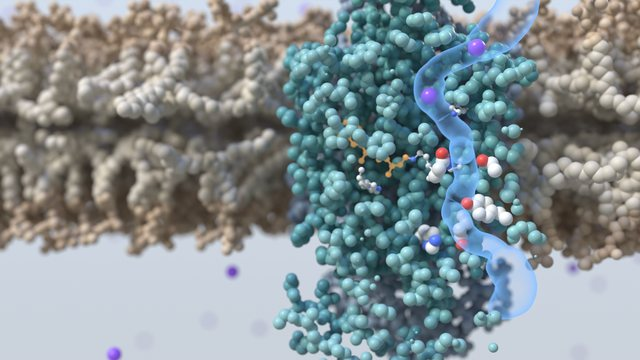
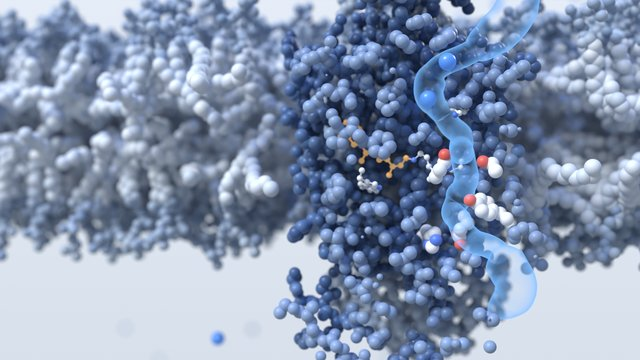
Molecular Animation 0.2.0: channelrhodopsin version 3 in release v0.2.0
- molanim 0.2.0.
- The case study's published delivery moves to release v0.2.0 (version 3,
  motion from physics); v0.1.0 keeps version 1. pipeline.py fetch and check
  now restore and compare the films this script makes.
- README and case-study README describe the motion layer and link the new
  release; case-study stills re-cut from the version 3 posters.

Claude-Session: https://claude.ai/code/session_01EFM4nZcLinTGRcQQg8xtDA

diff --git a/molanim/__init__.py b/molanim/__init__.py
@@ -16,7 +16,7 @@ Blender modules (import inside Blender 5.x only): molanim.blender.*
 import importlib
 import sys
 
-__version__ = '0.1.0'
+__version__ = '0.2.0'
 
 _ORDER = ('color', 'timeline', 'structure', 'morph', 'pathway', 'membrane', 'dynamics', 'particles',
           'blender.scene', 'blender.nodes', 'blender.groups', 'blender.mesh', 'blender.look', 'blender.rig',

diff --git a/README.md b/README.md
@@ -13,15 +13,16 @@ It is designed to be driven by an AI agent (Claude Code through Blender MCP) and
 
 https://github.com/user-attachments/assets/3e74cbad-caa4-4fd7-9cd3-a1a217ec0104
 
-*Case study: [channelrhodopsin](examples/channelrhodopsin/), from a brief on the 2026 Nobel Prize in Physiology or Medicine. A photon twists retinal, the protein responds, and a cation pathway opens. 21 s, built from PDB 9GO1/9GO2. Full-quality labelled and clean films are in the [v0.1.0 release](https://github.com/AmadeusBio-ai/Molecular_Animation/releases/tag/v0.1.0).*
+*Case study: [channelrhodopsin](examples/channelrhodopsin/), from a brief on the 2026 Nobel Prize in Physiology or Medicine. A photon twists retinal, the protein responds, and a cation pathway opens. 21 s, built from PDB 9GO1/9GO2. Full-quality labelled and clean films of version 3, whose thermal motion follows measured rates, are in the [v0.2.0 release](https://github.com/AmadeusBio-ai/Molecular_Animation/releases/tag/v0.2.0).*
 
 ## What's inside
 
 - **`molanim`, the framework.**
-  - A pure-numpy science layer: mmCIF and assemblies, atom-matched states, constrained morphs, pathway profiles, procedural membranes, illustrative ion motion, camera paths. It is unit-tested and runs anywhere.
-  - A Blender layer: sphere and ball-and-stick molecules with camera-aimed cutaways, cavity tubes, interaction markers, a studio look, a depth-of-field camera rig, and a separate label pass for captions, evidence tags and pointers.
-- **`pipeline.py`.** One command line for the whole production: `new` → `build` → `still` → `preview` → `render` → `deliver`, plus `doctor`, `motion` (jump and seam detection), `smoke` and `check` (re-render a poster frame and compare it with the delivery).
-- **A workflow and principles** for films that are both beautiful and scientifically honest: [docs/workflow.md](docs/workflow.md), [docs/principles.md](docs/principles.md).
+  - A pure-numpy science layer: mmCIF and assemblies, atom-matched states, constrained morphs, pathway profiles, procedural membranes, ion diffusion and transits, camera paths. It is unit-tested and runs anywhere.
+  - Thermal and Brownian motion from physics ([docs/motion.md](docs/motion.md)): one clock per film, exposure-averaged frames, and molecules that move as molecules (hydrodynamic tumbling and diffusion, elastic-network normal modes, side-chain turns about bonds, lipids as bodies, worm-like DNA), at rates from the literature. Loops repeat exactly.
+  - A Blender layer: sphere and ball-and-stick molecules with camera-aimed cutaways, cavity tubes, interaction markers, a studio look, a depth-of-field camera rig, and a separate label pass for captions, evidence tags, pointers and links.
+- **`pipeline.py`.** One command line for the whole production: `new` → `build` → `still` → `preview` → `render` → `deliver`, plus `doctor`, `motion` (jump and seam detection, on stepped previews and consecutive runs), `smoke` and `check` (re-render a poster frame and compare it with the delivery).
+- **A workflow and principles** for films that are both beautiful and scientifically honest: [docs/workflow.md](docs/workflow.md), [docs/principles.md](docs/principles.md), [docs/motion.md](docs/motion.md).
 - **An agent guide** ([AGENTS.md](AGENTS.md)) and a `/new-film` skill for Claude Code.
 
 ## Quick start
@@ -80,17 +81,17 @@ templates/shot/       the project scaffold
 assets/pdb/           structures from RCSB + SHA256SUMS
 tools/                render.py (inside Blender), encode.py, MCP smoke test, Windows MCP launcher
 tests/                pytest suite (runs in CI without Blender)
-docs/                 workflow, principles, framework API, setup, Blender 5 notes
+docs/                 workflow, principles, motion schematic, framework API, setup, Blender 5 notes
 AGENTS.md, CLAUDE.md  agent guide; .claude/skills/new-film is the /new-film skill
 ```
 
-`renders/`, `delivery/` and `.blend` files are build products and are ignored by git. The case study's delivered films are in the [v0.1.0 release](https://github.com/AmadeusBio-ai/Molecular_Animation/releases/tag/v0.1.0); get them with `python pipeline.py fetch channelrhodopsin`.
+`renders/`, `delivery/` and `.blend` files are build products and are ignored by git. The case study's delivered films are in the [v0.2.0 release](https://github.com/AmadeusBio-ai/Molecular_Animation/releases/tag/v0.2.0) (version 1 in [v0.1.0](https://github.com/AmadeusBio-ai/Molecular_Animation/releases/tag/v0.1.0)); get them with `python pipeline.py fetch channelrhodopsin`.
 
 ## Reproducibility
 
-- **Scripts are the source.** Builds are idempotent and report their numerical checks in `RESULT`. For the case study these are the retinal dihedral path, the salt-bridge distance, the worst morph bond deviation, the pathway profile and the ion clearance.
+- **Scripts are the source.** Builds are idempotent and report their numerical checks in `RESULT`. For the case study these are the retinal dihedral path, the salt-bridge distance, the worst morph bond deviation, the pathway profile, the ion clearance against the moving protein and the motion statistics.
 - **Pinned inputs.** Structures are committed with checksums. Blender 5.2 is pinned. Every Blender call uses `--factory-startup`, and the GPU is selected explicitly.
-- **Verified output.** `pipeline.py check` rebuilds a shot and compares a freshly rendered poster frame with the delivered one. After the case study was refactored onto `molanim`, its posters matched within 1/255 and its label frames were pixel-identical.
+- **Verified output.** `pipeline.py check` rebuilds a shot and compares a freshly rendered poster frame with the delivered one. After the case study was refactored onto `molanim`, its posters matched within 1/255 and its label frames were pixel-identical; version 3's poster still matches within 1/255 after the template's motion was generalised.
 
 ## Contributing
 

diff --git a/examples/channelrhodopsin/record.md b/examples/channelrhodopsin/record.md
@@ -1,6 +1,6 @@
 # Channelrhodopsin shot: production record · 2026-10-06
 
-**Status:** delivered 2026-10-06. Rebuilt on the `molanim` framework on 2026-10-07 with identical output (see Checks). Version 2 (thermal motion, website palette) delivered 2026-10-07; version 3 (motion from physics) delivered 2026-10-18 to `delivery/channelrhodopsin-v3/` (take-04, labels-05) (see the last two sections).
+**Status:** delivered 2026-10-06. Rebuilt on the `molanim` framework on 2026-10-07 with identical output (see Checks). Version 2 (thermal motion, website palette) delivered 2026-10-07; version 3 (motion from physics) delivered 2026-10-18 to `delivery/channelrhodopsin-v3/` (take-04, labels-05) and published in release v0.2.0 (see the last two sections).
 
 A 21 s scientific illustration for `sources/Nobel_Med_2026.md` (generated with ChatGPT; provenance in `sources/README.md`), direction 1, "The twist that opens a pathway". The brief recommends building this shot first. A photon isomerises retinal in the channelrhodopsin C1C2, the protein rearranges (Lys132 swings to Glu129), and the cation pathway is shown first interrupted, then open in an illustrative conducting-state model. The look is the studio molecular style: atoms as spheres, a pale backdrop, shallow depth of field, a teal protein with an amber chromophore.
 
@@ -123,7 +123,7 @@ The site owner found the delivered film too still: the lipids, side chains and r
   | `channelrhodopsin-clean.mp4` | H.264 | 504 | 21.0 s | 30.5 MB |
   | `channelrhodopsin-clean.webm` | VP9 | 504 | 21.0 s | 19.3 MB |
 
-  All are 1920×1080 at 24 fps, at the version 1 settings (CRF 16 / 24). The thermal motion makes them 1.7–2.2 times the size of version 1. Against the PNG frames (every 24th frame) the clean MP4 measures 41.2 dB (min 39.7) and the clean WebM 41.8 dB (min 40.3). Posters (clean): `-poster-wide.png` (frame 70), `-poster-retinal.png` (204), `-poster-channel.png` (470). Release v0.1.0 still holds version 1; the delivery zip is not rebuilt yet.
+  All are 1920×1080 at 24 fps, at the version 1 settings (CRF 16 / 24). The thermal motion makes them 1.7–2.2 times the size of version 1. Against the PNG frames (every 24th frame) the clean MP4 measures 41.2 dB (min 39.7) and the clean WebM 41.8 dB (min 40.3). Posters (clean): `-poster-wide.png` (frame 70), `-poster-retinal.png` (204), `-poster-channel.png` (470). Release v0.1.0 holds version 1; version 2 was not released (version 3 is in v0.2.0).
 - **Website.** The film replaces version 1 on amadeusbio.ai (`docs/media.md` in the website repository, "October 2026, fourth round"). The website encodes needed higher bitrates than version 1 to stay within 2 dB of it: VP9 1800k / 1300k and H.264 2200k / 2000k at 1080 / 720.
 
 ## Version 3 (2026-10-17): motion from physics

diff --git a/examples/channelrhodopsin/README.md b/examples/channelrhodopsin/README.md
@@ -9,7 +9,7 @@ A 21 s scientific illustration for the 2026 Nobel Prize in Physiology or Medicin
 2. The protein's interaction network rearranges (Lys132 swings to Glu129).
 3. The cation pathway is shown first as the crystal has it, interrupted, then open in a labelled, illustrative conducting-state model.
 
-The film comes in a labelled and a clean version (1920×1080, 24 fps, MP4 + WebM), published in the `v0.1.0` release. Get them with `python pipeline.py fetch channelrhodopsin`.
+The film comes in a labelled and a clean version (1920×1080, 24 fps, MP4 + WebM). Version 3, with motion from physics, is published in the [`v0.2.0` release](https://github.com/AmadeusBio-ai/Molecular_Animation/releases/tag/v0.2.0); get it with `python pipeline.py fetch channelrhodopsin`. Version 1 (no thermal motion, the original palette) stays in [`v0.1.0`](https://github.com/AmadeusBio-ai/Molecular_Animation/releases/tag/v0.1.0).
 
 ## From brief to film
 
@@ -30,6 +30,7 @@ The film comes in a labelled and a clean version (1920×1080, 24 fps, MP4 + WebM
 - **Representation modes.** The camera moves from a sphere surface to ball-and-stick for the mechanism, then to a cavity tube for connectivity. Camera-aimed cutaways and a section slab replace global transparency (`molanim.blender.groups.molecule`).
 - **Data before story.** The crystal's pathway is interrupted, so the film shows that first. The opening is a labelled illustrative step (`molanim.pathway`).
 - **Honest particles.** Ions dwell irregularly at binding sites, never share a site, and keep at least 1.70 Å from every atom surface (`molanim.particles`).
+- **Motion from physics** (version 3). One clock, 1 s of film = 1 ns: the protein moves in elastic-network normal modes, side chains turn about their bonds, lipids move as molecules, Na⁺ diffuses, all at literature rates (`molanim.dynamics`, `docs/motion.md`). Version 2's per-atom noise stretched lipid bonds by 0.6 Å and merged neighbouring molecules; `record.md` measures the difference.
 - **Separate label pass.** The labelled and clean films come from one Cycles render (`molanim.blender.labels`).
 
 ## Reproduce

diff --git a/docs/setup.md b/docs/setup.md
@@ -35,7 +35,7 @@ python pipeline.py doctor
 ```
 python -m pytest tests                     # framework and case-study science (no Blender needed)
 python pipeline.py smoke                   # builds every shot, renders one small still each (~1 min)
-python pipeline.py fetch channelrhodopsin  # the delivered case-study films and posters (release v0.1.0)
+python pipeline.py fetch channelrhodopsin  # the delivered case-study films and posters (release v0.2.0)
 python pipeline.py check channelrhodopsin  # rebuild, render frame 70 at delivery settings, compare with the poster
 ```
 
